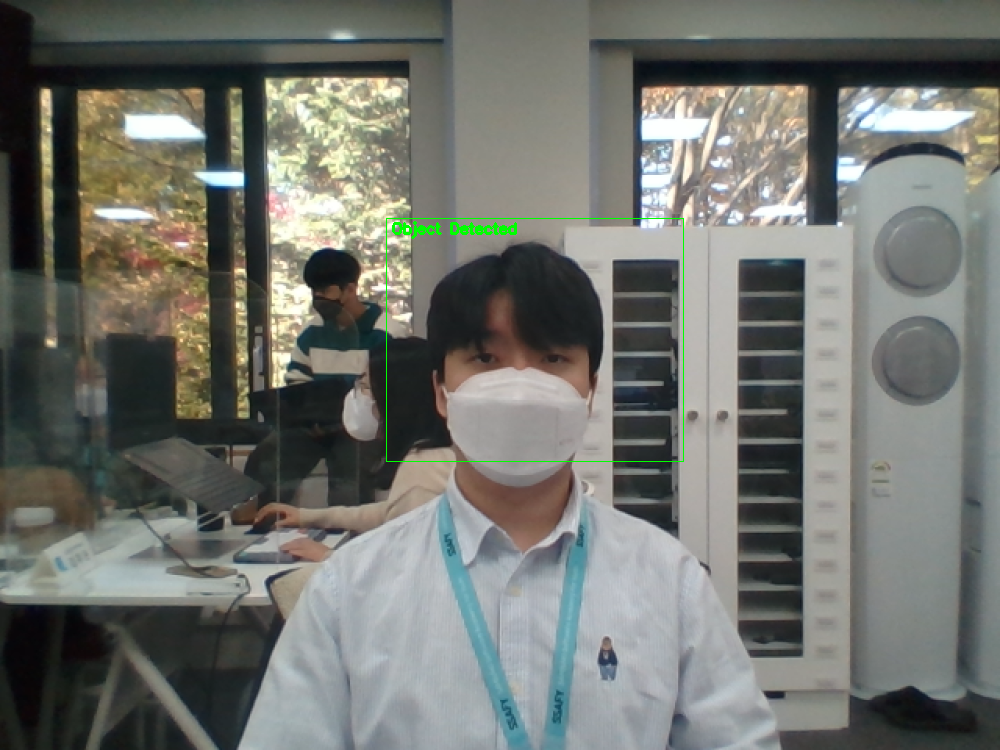
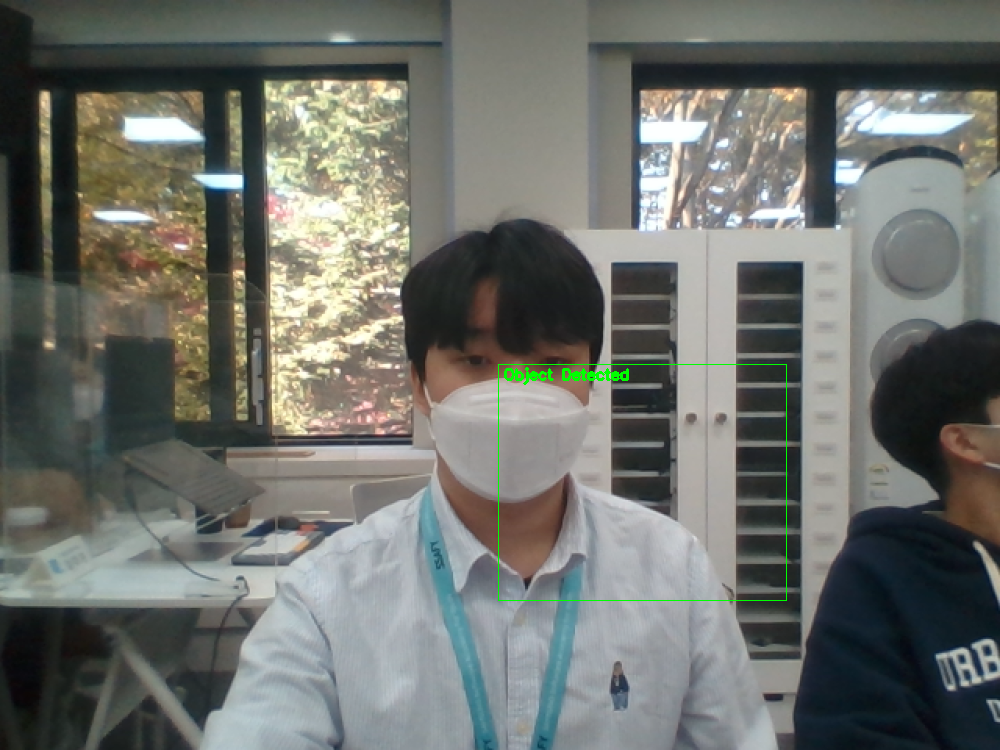
Feat. 로딩 페이지 구성 및 트래킹, 음성 인식 기능 연결 후 진척도 페이지로 자동 이동-JJH

diff --git a/gganbu-back/main.py b/gganbu-back/main.py
@@ -63,24 +63,16 @@ def recognize_from_microphone():
 
 @app.get("/tracking")
 def tracking():
-    # haar_upper_body_cascade = cv2.CascadeClassifier("data/haarcascade_upperbody.xml")
-    print(os.getcwd())
-    print(os.path.exists("data/haarcascade_upperbody.xml"))
     casacade = cv2.CascadeClassifier("data/haarcascade_upperbody.xml")
 
     video_capture = cv2.VideoCapture(0)
-
-    # video_width = video_capture.get(3)
-    # video_height = video_capture.get(4)
     img_counter = 0
     while True:
         img_counter = 0
         ret, frame = video_capture.read()
-
-        # frame = imutils.resize(frame, width=1000) # resize original video for better viewing performance
         frame = imutils.resize(frame, width=1000)
         gray = cv2.cvtColor(frame, cv2.COLOR_BGR2GRAY) # convert video to grayscale
-        rgb = cv2.cvtColor(frame, cv2.COLOR_BGR2RGB)
+        # rgb = cv2.cvtColor(frame, cv2.COLOR_BGR2RGB)
 
         box = casacade.detectMultiScale(
             gray,
@@ -112,17 +104,6 @@ def tracking():
     video_capture.release()
     cv2.destroyAllWindows()
 
-    # 캡쳐한 사진 삭제 함수
-    # def DeleteFiles(filePath):
-    #     if os.path.exists(filePath):
-    #         for file in os.scandir(filePath):
-    #             os.remove(file.path)
-    #         return 'remove_files'
-    #     else:
-    #         return 'Directory Not Found'
-
-    # DeleteFiles('frame_data')
-
     # 여기부터는 이미 캡쳐한거에서 상반신 박스그리기
     # Opening image
     img = cv2.imread("frame_data/opencv_frame_0.png")
@@ -131,8 +112,8 @@ def tracking():
     img_rgb = cv2.cvtColor(img, cv2.COLOR_BGR2RGB)
     
     found = casacade.detectMultiScale(
-            gray,
-            # rgb,
+            img_gray,
+            # img_rgb,
             scaleFactor = 1.1,
             minNeighbors = 3,
             minSize = (200, 200), # Min size for valid detection, changes according to video size or body size in the video.
@@ -171,12 +152,9 @@ def tracking():
                 # cv2.legacy.TrackerMOSSE_create
                 ]
     trackerIdx = 0  # 트랙커 생성자 함수 선택 인덱스(우리한테는 필요가 없다.)
-
     tracker = None
     isFirst = True
-
-    video_src = 0 # 비디오 파일과 카메라 선택 ---②
-    cap = cv2.VideoCapture(video_src)
+    cap = cv2.VideoCapture(0)
     fps = cap.get(cv2.CAP_PROP_FPS) # 프레임 수 구하기
     delay = int(1000/fps)
     win_name = 'Tracking APIs'
@@ -185,6 +163,7 @@ def tracking():
     while cap.isOpened():
         global isWaiting
         if isWaiting:
+            print("음성인식 종료로 인해 트래킹도 종료")
             break
         ret, frame = cap.read()
         frame = imutils.resize(frame, width=1000)
@@ -244,11 +223,11 @@ def tracking():
     
 @app.get("/gganbu")
 def checkGGanbu() :
-    while(True):
+    global isWaiting
+    while(isWaiting == False):
         gganbu = recognize_from_microphone()
         print(gganbu)
         if (gganbu.find("간부")!=-1) or (gganbu.find("깜부")!=-1) or (gganbu.find("안부")!=-1) or (gganbu.find("깐부")!=-1):
-            global isWaiting
             isWaiting = True
             break
     time.sleep(0.5)
